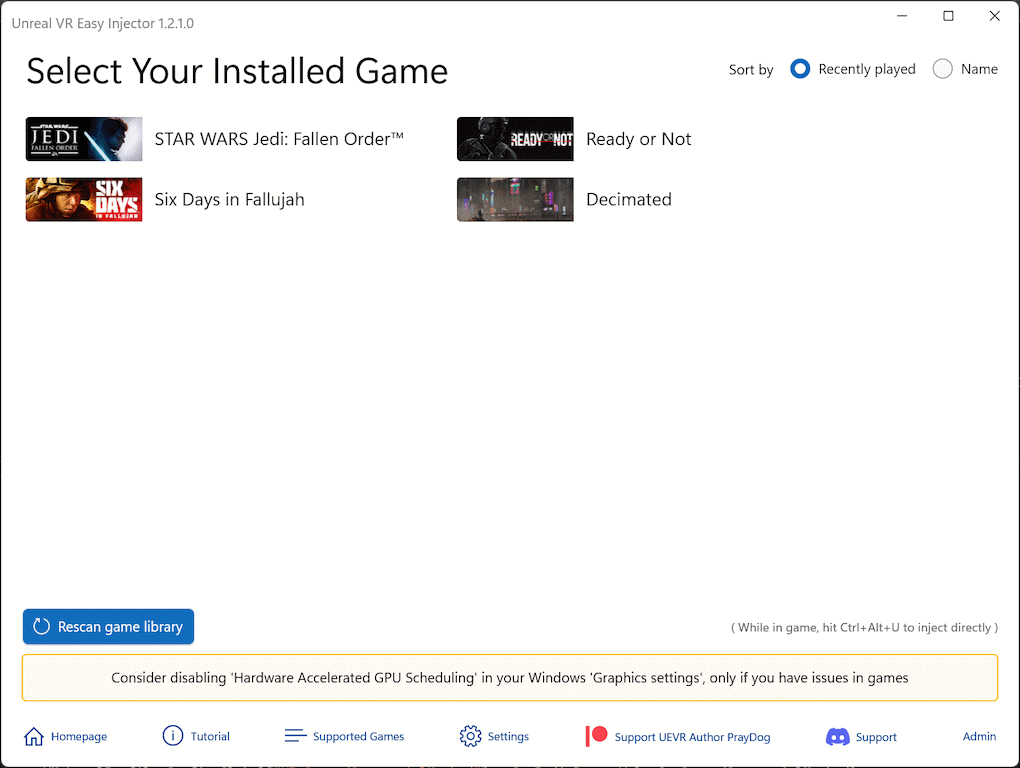
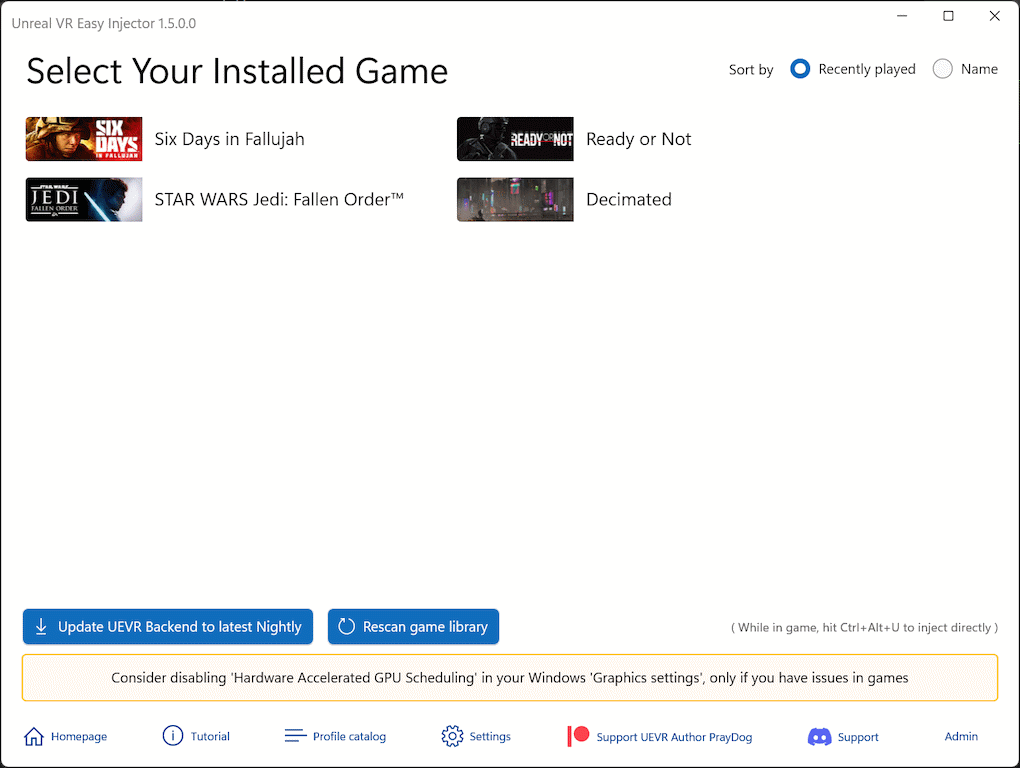
Update to V1.5

diff --git a/index.md b/index.md
@@ -1,12 +1,15 @@
 Play numerous Unreal Engine games from your Steam or EPIC library in Virtual Reality, such as with Meta Quest headsets.
-This app takes [Praydog’s brilliant (UEVR)](https://github.com/praydog/UEVR) magic module, but replaces the UI part with a user-friendly, new one. It adds features like an online profiles database and voice commands. UEVR for the masses ;-)  
+This app takes [Praydog’s brilliant (UEVR)](https://github.com/praydog/UEVR) magic module, but replaces the UI part with a user-friendly, new one.   
+It adds features like an **online profiles database, voice commands, user friendly profiles editor and UEVR Nightly updates with one click**.  
+UEVR for the casual user, mass market compatible. ;-)  
 
 <a href="https://github.com/oduis/UEVRDeluxe/releases" class="download-link">Download latest release</a>
 
 New to UEVR? Read [this step by step beginners tutorial](UEVRTutorial.md)  
 
 ## Integration with Steam, EPIC, and GOG,
-Guides you through the process, filters installed games that may be using Unreal Engine, and provides warnings for common issues that beginners face:
+Guides you through the process, filters installed games that may be using Unreal Engine, and provides warnings for common issues that beginners face. 
+One click update to latest UEVR nightly backend version.
 
 ![Main screenshot](assets/ScreenMain.png)
 
@@ -16,7 +19,9 @@ Includes the most commonly used options with descriptions to help you get starte
 ![Profile editor](assets/EditProfile.png)
 
 ## Easy to find a Profile and start the Game, including XR Runtime Switcher
-The new UEVR profile database includes documentation for each profile. No more searching on Discord or outdated profile websites. Inject via hotkey while running your game, without needing to tab around with your headset on.
+The new UEVR profile database includes documentation for each profile. No more searching on Discord or outdated profile websites
+(but you can still use them with UEVR Easy Injector, just like you would use them with UEVR Classic). 
+Inject via hotkey while running your game, without needing to tab around with your headset on.
 
 ![Game screenshot](assets/ScreenGame.png)
 
@@ -30,7 +35,10 @@ Configure easy to use voice commands per game. Little performance overhead on RA
 No, this is free (for non commercial use). However, you are encouraged to support the author of UEVR here: [Praydog's Patreon](https://patreon.com/praydog).
 ### Do I need UEVR Injector installed?
 No, it is not necessary. However, it does no harm to have it installed in parallel, as long as it is not used on the same games.
+### Can I use game profiles not in the database (e.g. installed manually from Discord)?
+Sure, just like with UEVR classic.
 ### I have a great profile. How to add it to the UEVR Easy Injector database?
 Follow [this guide](SubmitProfile.md)
 ### What UEVR version is it based on?
-Currently always the current nightly version when published. But you can replace the UEVR DLLs manually with another versions if you like. Just replace the DLLs in the "UEVR" subfolder below the folder where UEVR Easy Injector is installed with the DLLs of the nightly UEVR.
+Currently the current nightly version that looks stable when published. But you can just click on Update button to download the latest nightly automatically.  
+Beware though that some UEVR nightly versions can contain new bugs.
